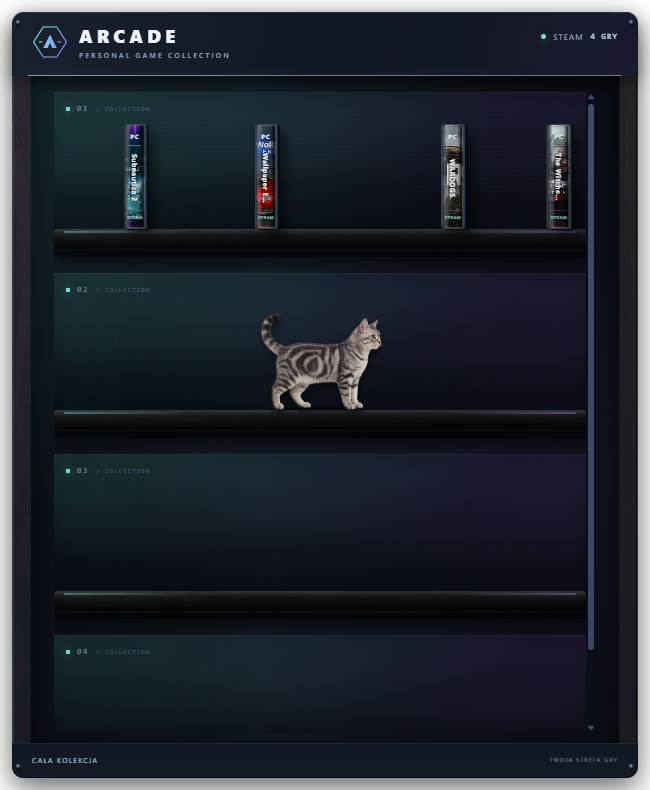
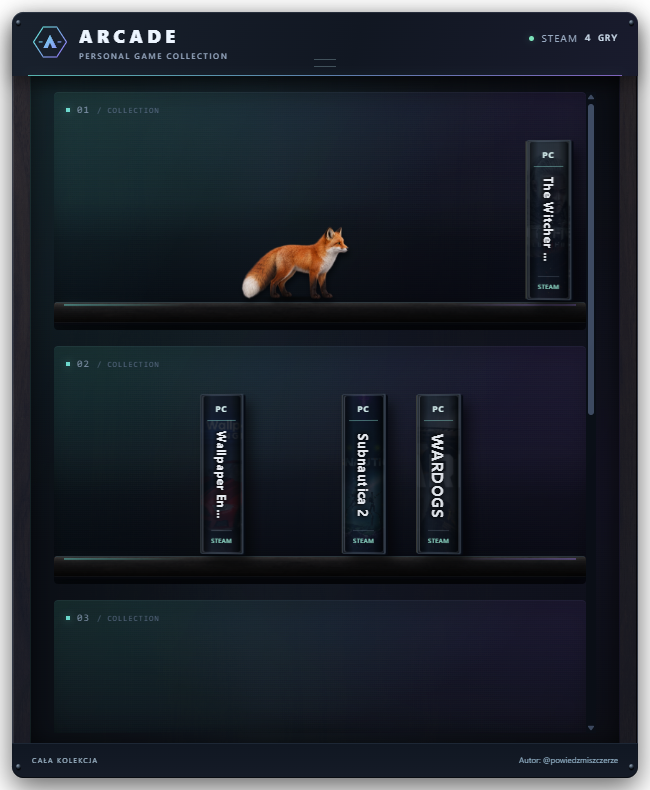
Present ARCADE 0.3.0 responsive sizing and live snap preview

diff --git a/README.md b/README.md
@@ -19,6 +19,12 @@ ARCADE zamienia listę gier w przestrzenną kolekcję pudełek na półkach. Ust
 
 <img src="docs/screenshots/gaming.png" alt="Widget ARCADE w motywie Gaming Night Shift — ciemna szafka, podświetlenie i pudełka gier Steam" width="650">
 
+## Skalowanie i dynamiczne okno w 0.3.0
+
+Większe pudełka i dopasowane do długości tytułów napisy. Pety skalują się razem z półkami. Przeciągnij górną listwę do górnej krawędzi monitora: zobaczysz podświetlony podgląd docelowego obszaru. Puść, aby dopasować szafkę do dostępnego ekranu, lub odsuń kursor, aby anulować podgląd. Zmieniaj rozmiar za dowolną krawędź lub narożnik; podczas przeciągania widać aktualne wymiary. Nadmiar gier i półek jest przewijany, żeby zachować czytelność.
+
+<img src="docs/screenshots/responsive.png" alt="Większe pudełka i pet dopasowane do rozmiaru szafki" width="650">
+
 ## Nowe pety w wersji 0.2.0
 
 Smok, fretka, gekon i lis dołączają do kota i szczura. Każda nowa postać ma 16 póz, w tym osiem klatek chodu. Wybór: **ikona obok zegara → Pet na półce**.
@@ -40,12 +46,12 @@ Smok, fretka, gekon i lis dołączają do kota i szczura. Każda nowa postać ma
 
 ## Pobierz i uruchom
 
-1. Przejdź do **[Releases](https://github.com/codewojcik-arch/arcade-game-shelf/releases/latest)** i pobierz `ARCADE-0.2.0-win-x64.zip`.
+1. Przejdź do **[Releases](https://github.com/codewojcik-arch/arcade-game-shelf/releases/latest)** i pobierz `ARCADE-0.3.0-win-x64.zip`.
 2. Wypakuj **cały folder** w miejsce, w którym możesz zapisywać pliki.
 3. Uruchom **ARCADE.exe**. Nie przenoś samego EXE — wymaga pozostałych plików w paczce.
 4. Ustawienia i zamknięcie aplikacji znajdziesz pod ikoną ARCADE obok zegara Windows, czasem pod strzałką ukrytych ikon.
 
-**Wymagania:** Windows 10/11 64-bit, Steam i połączenie z internetem do pierwszego pobrania okładek. Gotowa paczka ma dołączony runtime — nie wymaga osobnego Node.js. Wersja 0.2.0 jest wersją poglądową; wygląd i zachowanie mogą jeszcze się zmieniać.
+**Wymagania:** Windows 10/11 64-bit, Steam i połączenie z internetem do pierwszego pobrania okładek. Gotowa paczka ma dołączony runtime — nie wymaga osobnego Node.js. Wersja 0.3.0 jest wersją poglądową; wygląd i zachowanie mogą jeszcze się zmieniać.
 
 Przesuwaj widget za górną listwę. Dwuklik listwy powiększa lub przywraca szafkę; przeciągnięcie do górnej krawędzi ekranu i puszczenie również ją powiększa. Zamknięcie z menu w zasobniku kończy aplikację.
 

diff --git a/CHANGELOG.md b/CHANGELOG.md
@@ -1,5 +1,14 @@
 # Historia zmian
 
+## 0.3.0 — skalowanie i dynamiczne okno
+
+- Większe pudełka i czytelniejsze tytuły dopasowywane do ich długości.
+- Wspólne skalowanie petów, pudełek i półek do dostępnej wysokości okna.
+- Zmiana rozmiaru za osiem krawędzi i narożników oraz aktualne wymiary podczas przeciągania.
+- Przezroczysty podgląd dopasowania do ekranu, poprawna obsługa wielu monitorów.
+- Poziome przewijanie zatłoczonych półek zamiast nieczytelnych miniatur.
+- Testy geometrii, ośmiu kombinacji rozmiaru / widoku, petów i podglądu.
+
 ## 0.2.0 — pety fantasy i zwierzęta
 
 - Smok, fretka, gekon i lis do wyboru w zasobniku Windows.
